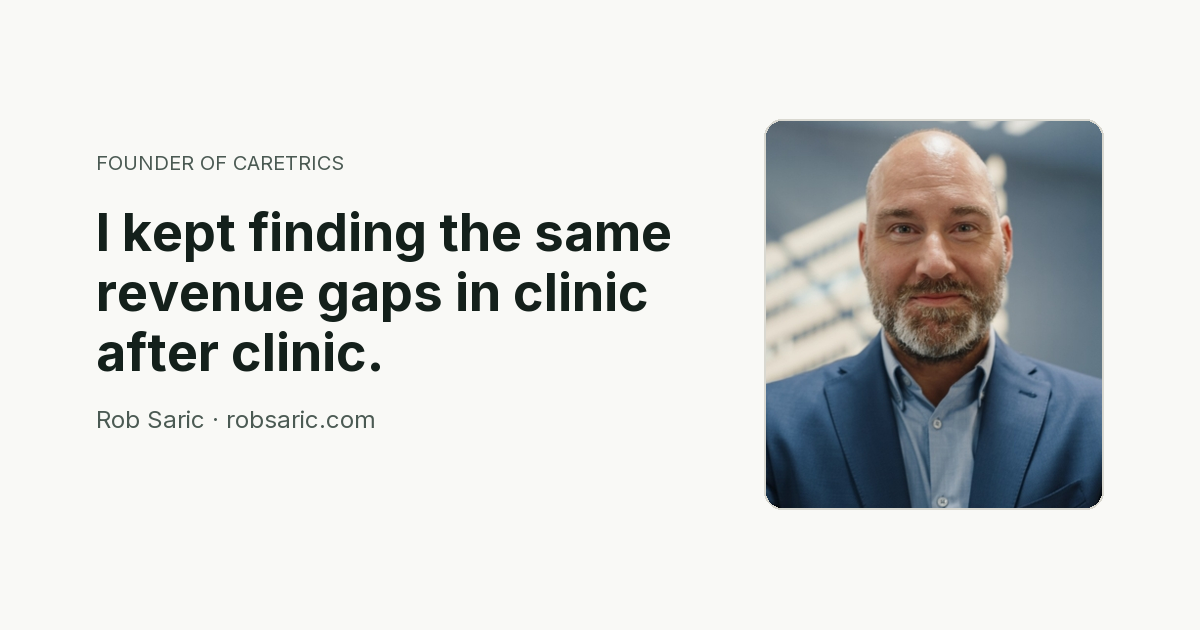
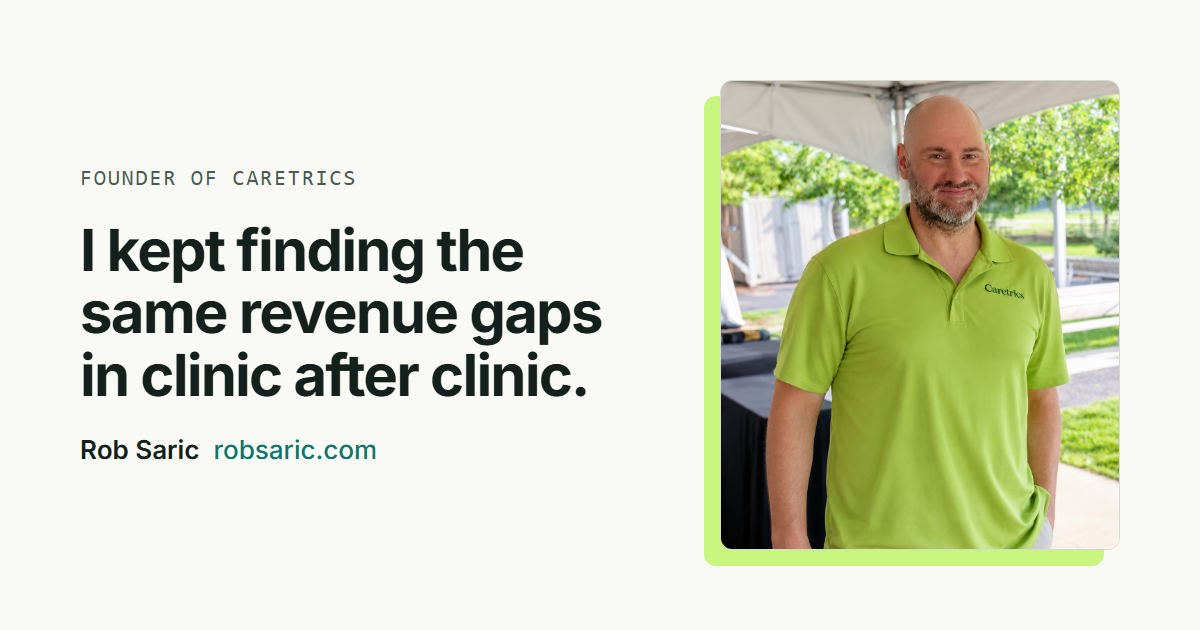
feat(og): the site card regenerates like the note cards, current photo, lime backplate
og-default.png had been a static asset since before the redesign, so every
homepage unfurl still carried the old studio portrait. It now renders from
the same headless-Chrome pipeline as the note cards: cream ground, the hero
line, Rob Saric and robsaric.com, and the current Caretrics-polo portrait on
the site's lime-500 offset backplate. Strings live in og-card.mjs
(OG_SITE_CARD); the heading restates the hero H1 and is kept in step by hand,
which docs/COPY.md records.

diff --git a/docs/COPY.md b/docs/COPY.md
@@ -142,7 +142,7 @@ Renamed from "Field notes" 2026-08-27 (Rob's call, made personal). The URL `/fie
 - `/field-notes/` H1: My notes, and nothing else in the page header. The line "Kept in public, in order. The wrong turns stay in." belongs to the section intro and was printing twice on this page until 2026-08-19. · meta description: Notes from Rob Saric on clinic revenue, ownership, and building Caretrics. Kept in public, in order.
 - Article byline (field-note articles only, added 2026-08-24): "By Rob Saric · Founder of Caretrics", under the date in the article header; the name links to `/about/`. The JSON-LD already carried the author; now the reader sees it too. Archive posts stay as written, no byline.
 - Updated line: when a note carries `updated` frontmatter, the date line reads "[published date] · Updated [updated date]".
-- OG share cards (added 2026-08-25): every published note ships a generated 1200x630 card at `/og/notes/<slug>.png` (`pnpm generate:og`, committed under `public/og/notes/`). On the card: the note's `type` and full date as the eyebrow, the title anchored to the footer rule, then the avatar mark, "Rob Saric" and "robsaric.com" (`src/data/og-card.mjs`). Design approved 2026-08-25 from the claude.ai/design "Field Note OG Cards" sheet: 9a dark with the 92/84/76 title ladder, plus the 9c stat slot when a note carries `stat` + `statLabel` (+ optional `statContext`) frontmatter, the avatar added by Rob; transcribed in `scripts/og-card-template.mjs`. Stat strings state what they count ("against 15% booked at the desk · one clinic, two years"). Other pages keep `og-default.png`.
+- OG share cards (added 2026-08-25): every published note ships a generated 1200x630 card at `/og/notes/<slug>.png` (`pnpm generate:og`, committed under `public/og/notes/`). On the card: the note's `type` and full date as the eyebrow, the title anchored to the footer rule, then the avatar mark, "Rob Saric" and "robsaric.com" (`src/data/og-card.mjs`). Design approved 2026-08-25 from the claude.ai/design "Field Note OG Cards" sheet: 9a dark with the 92/84/76 title ladder, plus the 9c stat slot when a note carries `stat` + `statLabel` (+ optional `statContext`) frontmatter, the avatar added by Rob; transcribed in `scripts/og-card-template.mjs`. Stat strings state what they count ("against 15% booked at the desk · one clinic, two years"). Other pages keep `og-default.png`, which regenerates from the same pipeline (`renderSiteCard`, strings in `og-card.mjs` `OG_SITE_CARD`: the hero line, kept in step by hand, with the current portrait on the lime backplate). Regenerated 2026-08-29, replacing a stale static asset that carried the old studio portrait into every link unfurl.
 
 ## 04 · About
 
